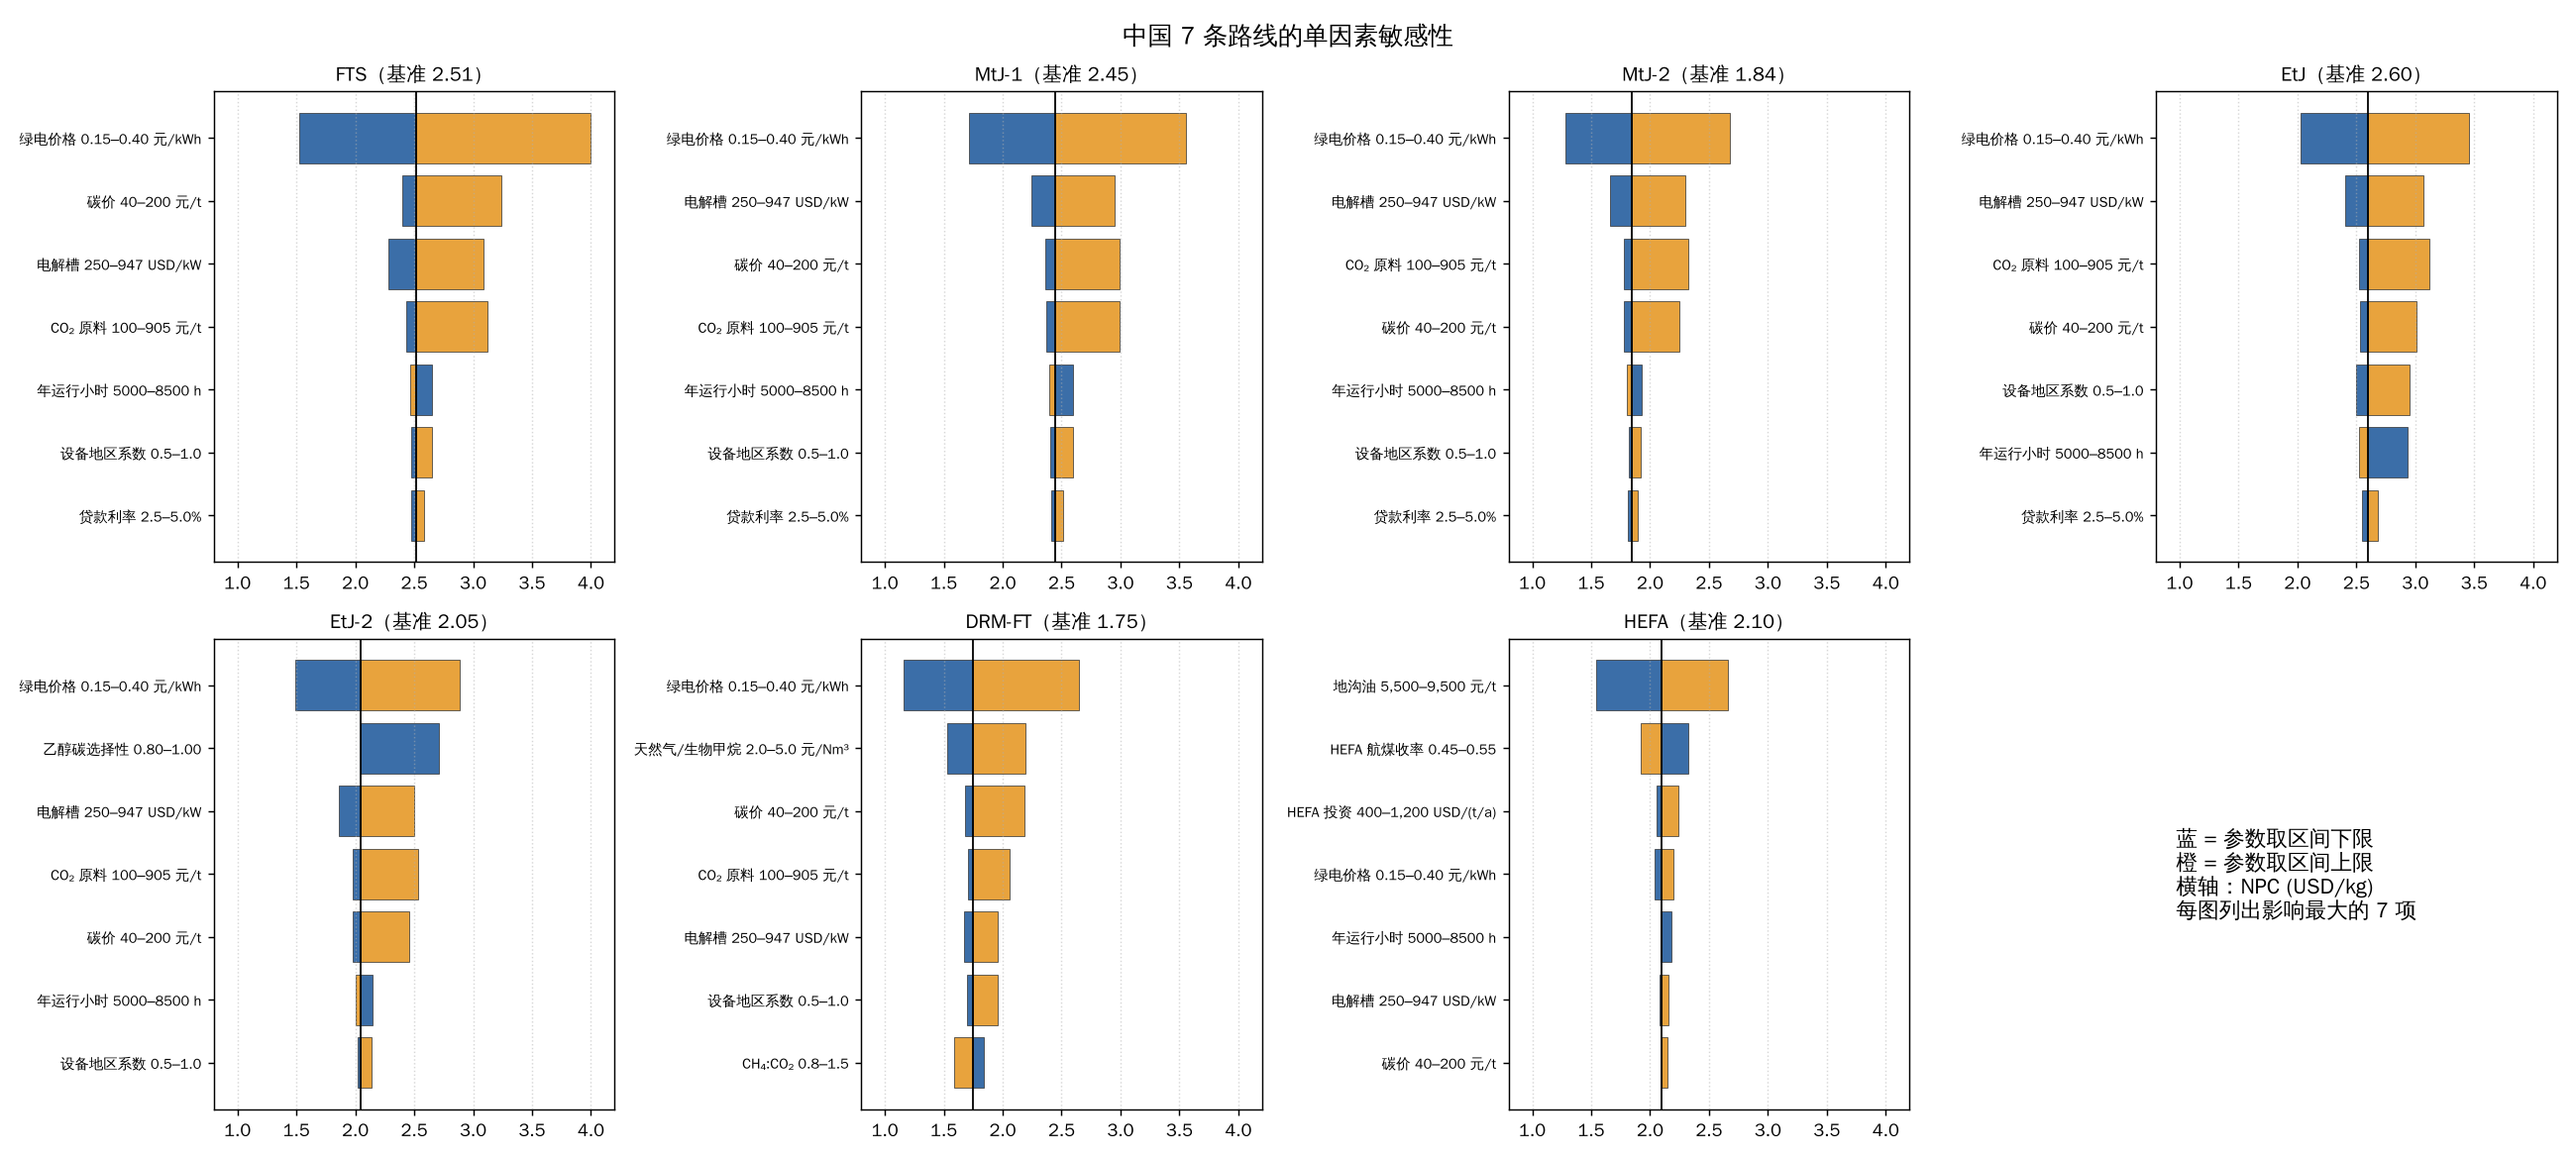
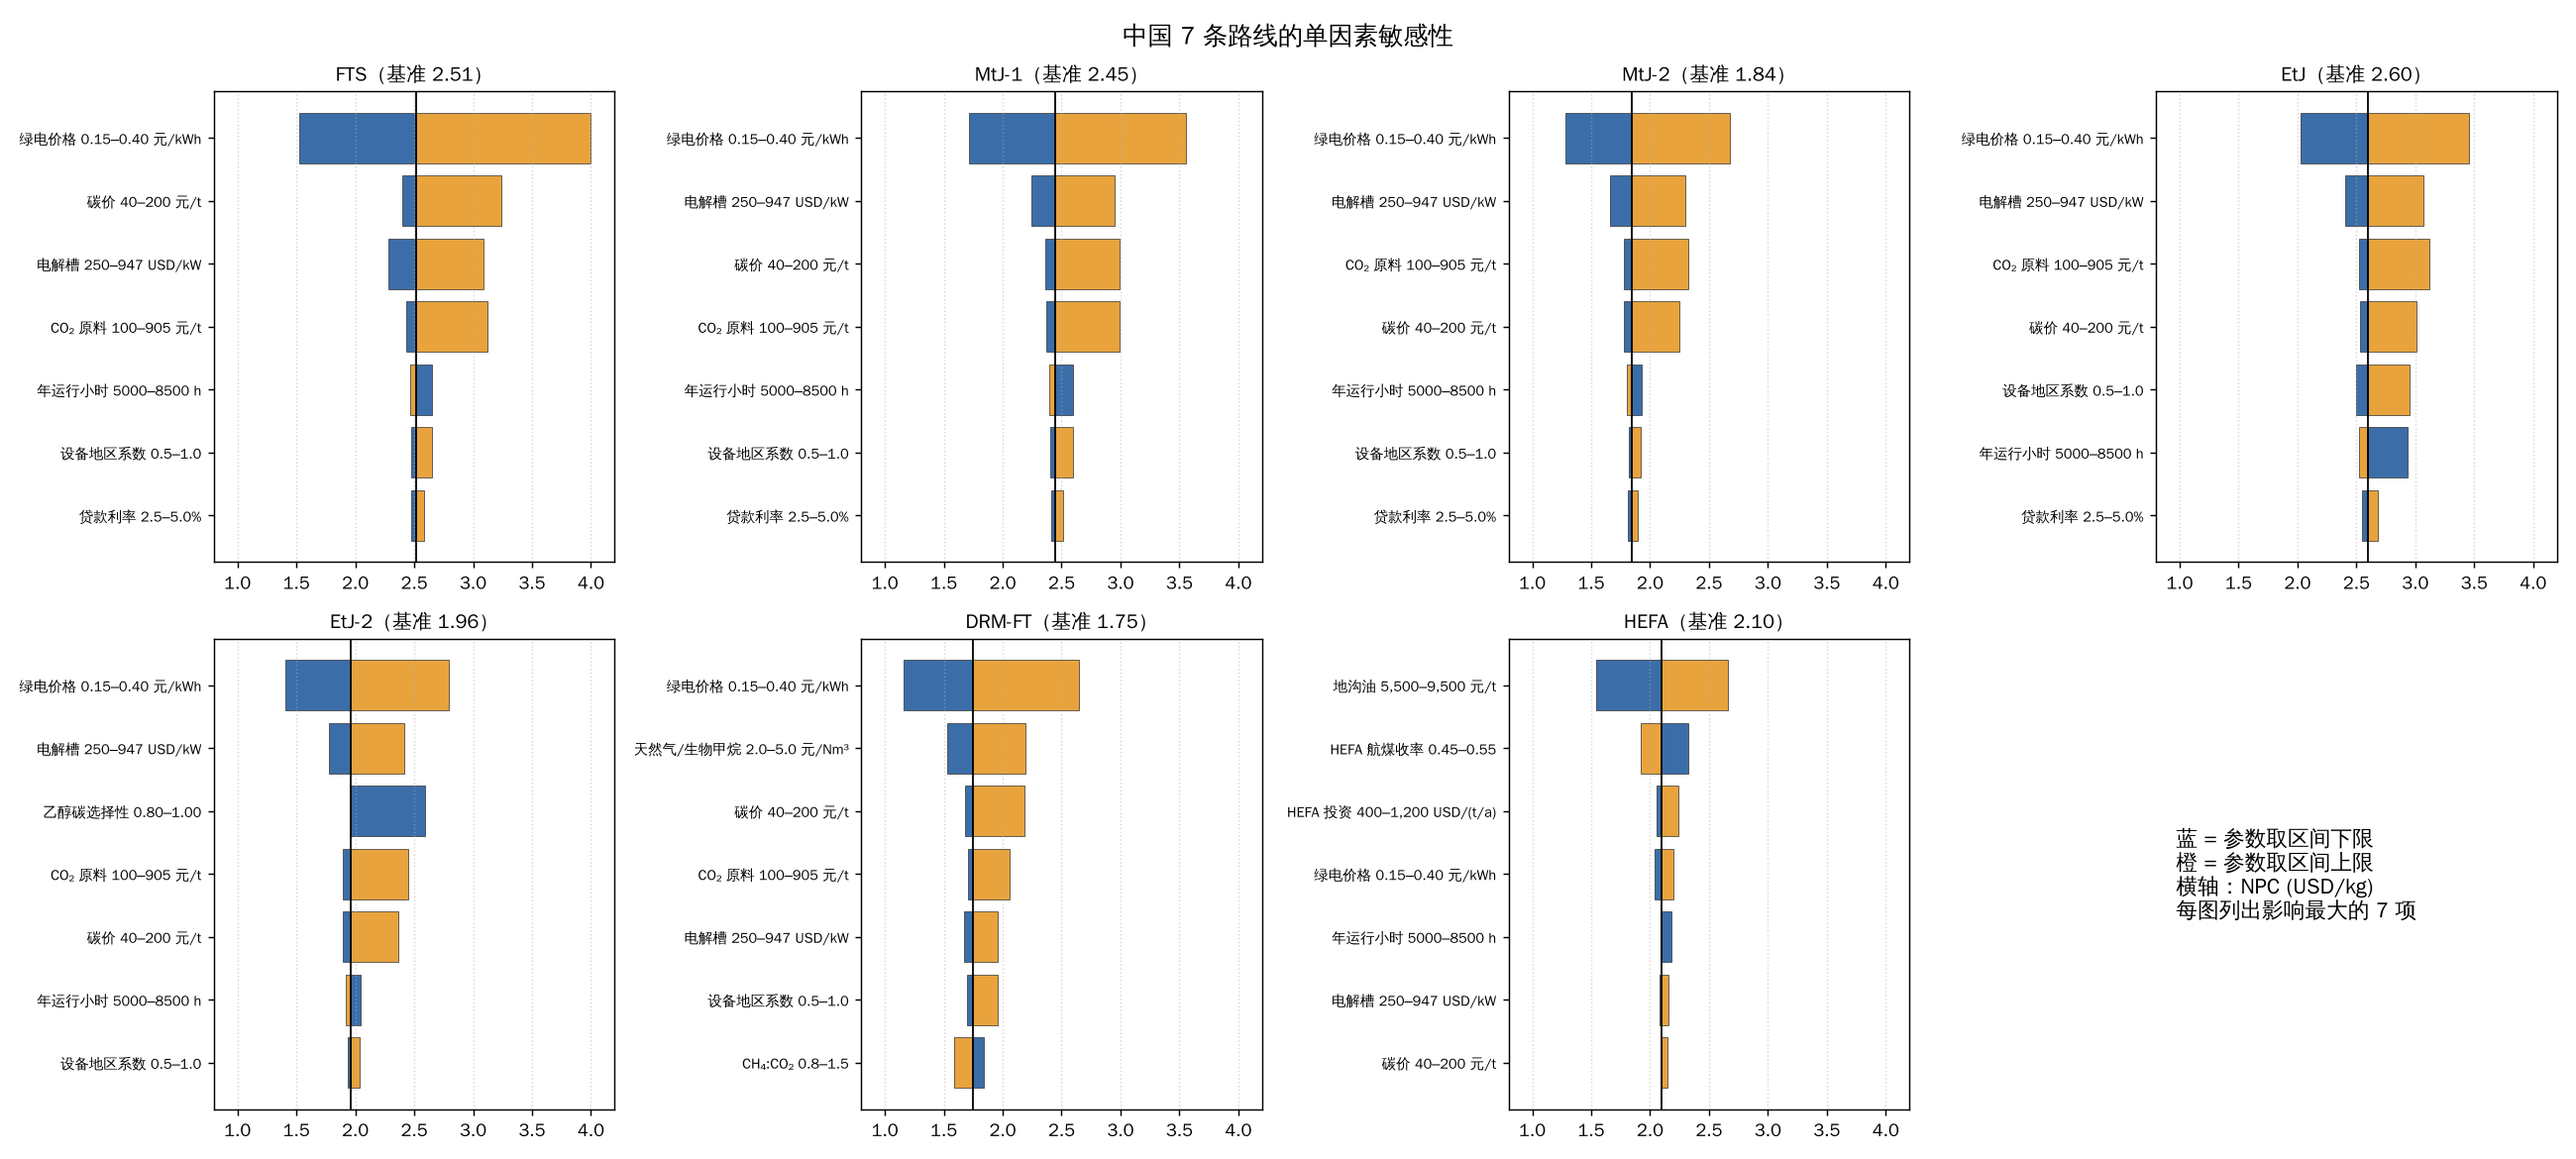
Align EtJ-2 CAPEX contingency and steam recovery with MtJ-2
Claude-Session: https://claude.ai/code/session_019ZxddMFjrdNaj3CF5ySFqn

Changed region(s): [[0.0935, 0.5846, 0.1869, 0.9538], [0.0, 0.6462, 0.0623, 0.7077]]

diff --git a/saf_tea/extensions.py b/saf_tea/extensions.py
@@ -67,8 +67,10 @@ ETJ2_ASSUMPTIONS = {
     "purge_loss": 1 - 1514.5 / 1524.8,     # CO2 lost with the loop purge (as MtJ-2)
     "h2_purge_loss": 1 - 9159.7 / 9231.46, # H2 lost with the loop purge (as MtJ-2)
     "p_syn_bar": 50.0,           # synthesis pressure
-    "steam_recovery": 0.5,       # share of reaction heat exported as MP steam
-    "capex_safety": 1.20,        # low-TRL contingency (same 20 % the paper puts on EtJ)
+    # aligned with MtJ-2: the paper exports more steam from MtJ-2 (~74 MW MP+LP) than its total
+    # reaction heat (~48 MW), i.e. all reaction heat is recovered; no extra CAPEX contingency on MtJ-2
+    "steam_recovery": 1.0,       # share of synthesis reaction heat exported as MP steam
+    "capex_safety": 1.00,        # extra CAPEX contingency (MtJ-2: none; paper's EtJ: 1.2)
     "loop_exp": 0.6,             # scaling exponent, loop equipment
     "feed_comp_exp": 0.8,        # scaling exponent, feed compressors
 }

diff --git a/saf_tea/run_all.py b/saf_tea/run_all.py
@@ -114,7 +114,7 @@ def etj2_sens(region="CN"):
         ("carbon_yield", "乙醇碳选择性 (0.80–1.00)", 0.80, 1.00),
         ("single_pass_conv", "CO₂单程转化率 (0.10–0.35)", 0.10, 0.35),
         ("capex_safety", "低TRL投资裕量 (1.0–1.5)", 1.0, 1.5),
-        ("steam_recovery", "反应热回收为蒸汽 (0–0.8)", 0.0, 0.8),
+        ("steam_recovery", "反应热回收为蒸汽 (0–1.0)", 0.0, 1.0),
         ("p_syn_bar", "合成压力 bar (30–80)", 30, 80),
     ]
     return tornado(lambda s: scenario("EtJ-2", region, e2=s), params, x.ETJ2_ASSUMPTIONS)

diff --git a/saf_tea/README.md b/saf_tea/README.md
@@ -54,20 +54,20 @@
 
 - **碳选择性与 MtJ-2 对齐**：按 SI 表 9，MtJ-2 的甲醇碳 / 新鲜 CO₂ 碳 = 99.33%，进合成的 H₂ 比化学计量多 0.78%。EtJ-2 取相同的吹扫损失，不生成 CH₄（`carbon_yield = 1.0`）。敏感性分析中，碳选择性在 0.80–1.00 之间变动（0.80 表示 20% 的碳变成 CH₄ 后吹扫掉）。
 - **单程转化率 0.20**：用于计算循环量和压缩功。
-- **合成段投资**：以 MtJ-2 甲醇合成段为参照放缩（回路设备取 0.6 次方，进料压缩机取 0.8 次方），去掉甲醇精馏（粗乙醇水溶液直接去脱水），再加 20% 低 TRL 裕量。
+- **合成段投资**：以 MtJ-2 甲醇合成段为参照放缩（回路设备取 0.6 次方，进料压缩机取 0.8 次方），去掉甲醇精馏（粗乙醇水溶液直接去脱水）。与 MtJ-2 一致，不加额外投资裕量（`capex_safety = 1.0`；论文对发酵法 EtJ 加了 1.2）。
 - **用水抵扣**：反应生成的水（41.0 t/h）直接抵扣脱水单元的配水，因此外购水更少。
-- **反应热**（54 MW）按 50% 回收为中压蒸汽，计为收入。
+- **反应热**（36.6 MW）全部回收为中压蒸汽，计为收入（`steam_recovery = 1.0`）。这样做是为了和 MtJ-2 对齐：论文中 MtJ-2 外输蒸汽约 74 MW（中压 51.5 MW + 低压 22.8 MW），超过了它全流程约 48 MW 的反应热，说明 MtJ-2 的反应热实际上是全部回收的。
 
-物料衡算结果：H₂ 9,515 kg/h（MtJ-2 是 9,449，EtJ 是 9,958），CO₂ 67.2 t/h，工艺段 FCI 约 201 MUSD（欧洲；EtJ 是 701，MtJ-2 是 175）。
+物料衡算结果：H₂ 9,515 kg/h（MtJ-2 是 9,449，EtJ 是 9,958），CO₂ 67.2 t/h，工艺段 FCI 约 168 MUSD（欧洲；EtJ 是 701，MtJ-2 是 175）。
 
 ## 4. 结果（USD/kg SAF）
 
 | 地区 | FTS | MtJ-1 | MtJ-2 | EtJ | EtJ-2 |
 |---|---|---|---|---|---|
-| 欧洲 | 6.44 | 5.80 | **4.52** | 5.82 | 4.84 |
-| 美国 | 3.49 | 3.45 | **2.68** | 3.95 | 3.01 |
-| 中东 | 8.26 | 6.98 | **5.36** | 6.74 | 5.77 |
-| 中国 | 2.51 | 2.45 | **1.84** | 2.60 | 2.05 |
+| 欧洲 | 6.44 | 5.80 | **4.52** | 5.82 | 4.72 |
+| 美国 | 3.49 | 3.45 | **2.68** | 3.95 | 2.89 |
+| 中东 | 8.26 | 6.98 | **5.36** | 6.74 | 5.65 |
+| 中国 | 2.51 | 2.45 | **1.84** | 2.60 | 1.96 |
 
 化石 Jet A-1 约 1.04 USD/kg。
 
@@ -88,7 +88,7 @@
 
 2. **路线排名在中国不变**：MtJ-2 最优，FTS 和 MtJ-1 接近。EtJ 的发酵罐投资折算到中国后降低了，但仍然偏高。
 
-3. **EtJ-2（碳选择性与 MtJ-2 对齐后）**：四个地区都是第二便宜的电制路线，只比 MtJ-2 贵 0.21–0.41 USD/kg，比发酵法 EtJ 便宜 0.55–0.98。省掉发酵罐后，投资降到 EtJ 的约 1/4。用氢量（9,515 kg/h）和 MtJ-2（9,449）基本相同，因为两者每个碳都需要 3 个 H₂。与 MtJ-2 剩下的差距（中国 0.21）主要来自三项：蒸汽副产收入更少（MtJ-2 的甲醇制丙烯放热可多卖蒸汽）、20% 的低 TRL 投资裕量、两段齐聚使下游设备更多。如果碳选择性降到 0.80，中国 EtJ-2 升到 2.71。要追平 EtJ，碳选择性需要达到：中国 0.83、美国 0.79、欧洲 0.86、中东 0.88。
+3. **EtJ-2（碳损失、投资裕量、蒸汽回收都与 MtJ-2 对齐后）**：四个地区都是第二便宜的电制路线，只比 MtJ-2 贵 0.12–0.29 USD/kg，比发酵法 EtJ 便宜 0.64–1.10。用氢量（9,515 kg/h）、电解投资、资本回收都和 MtJ-2 几乎相同，工艺段 FCI 甚至略低（中国 90 对 94 MUSD）。剩下的差距（中国 0.12）几乎全部是蒸汽和液化气副产收入：MtJ-2 外输约 74 MW 蒸汽，EtJ-2 只有合成段的 36.6 MW。这是因为论文的 EtJ 下游（乙醇脱水为吸热反应）本身不外输蒸汽，而 MtJ-2 的甲醇制丙烯高温段可以产生额外蒸汽。如果碳选择性降到 0.80，中国 EtJ-2 升到 2.59。要追平 EtJ，碳选择性需要达到：中国 0.80、美国 0.76、欧洲 0.84、中东 0.86。
 
 4. **中国 MtJ-2 的敏感性**（`results/tornado_china_mtj2.png`）：
    - 绿电价格 0.15–0.40 元/kWh → NPC 1.28–2.68，影响远大于其他参数；
@@ -132,7 +132,7 @@
 
 | FTS | MtJ-1 | MtJ-2 | EtJ | EtJ-2 | DRM-FT | HEFA |
 |---|---|---|---|---|---|---|
-| 2.51 | 2.45 | 1.84 | 2.60 | 2.05 | **1.75** | 2.10 |
+| 2.51 | 2.45 | 1.84 | 2.60 | 1.96 | **1.75** | 2.10 |
 
 ### 敏感性分析
 
